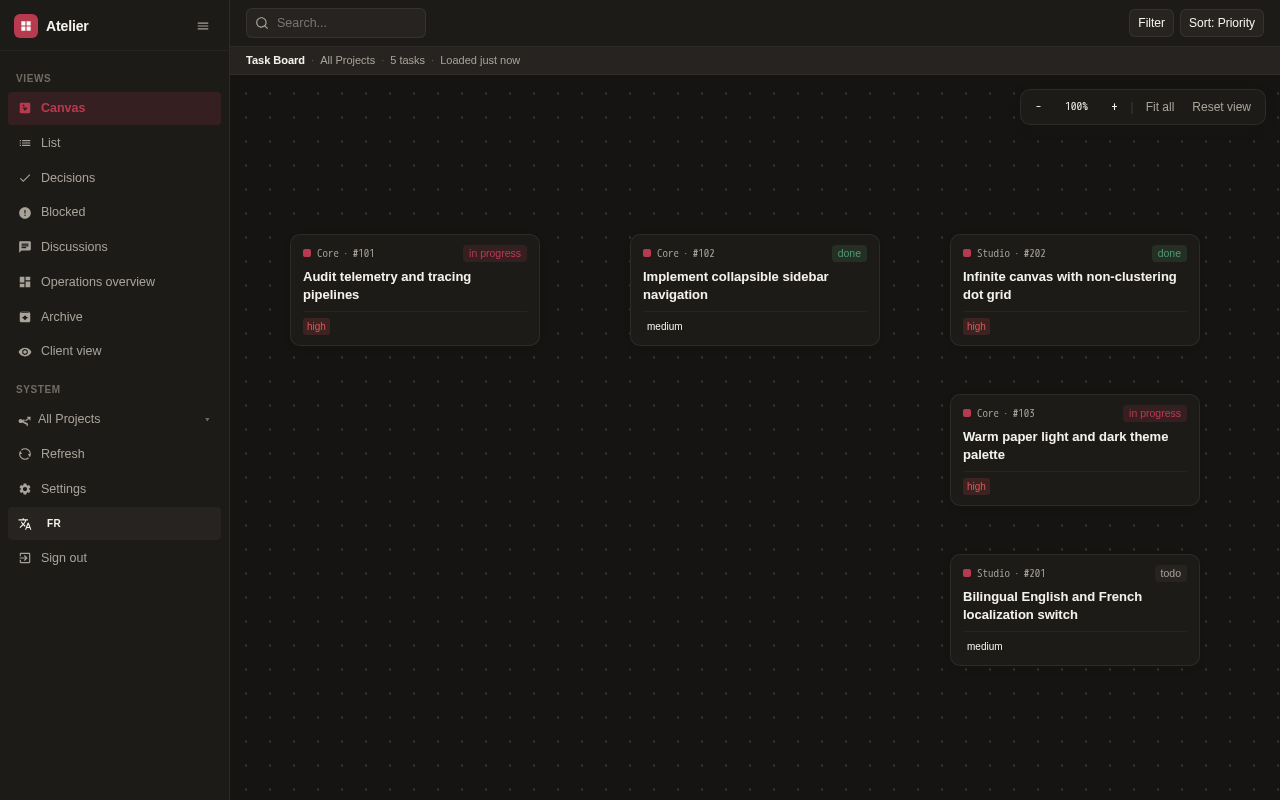
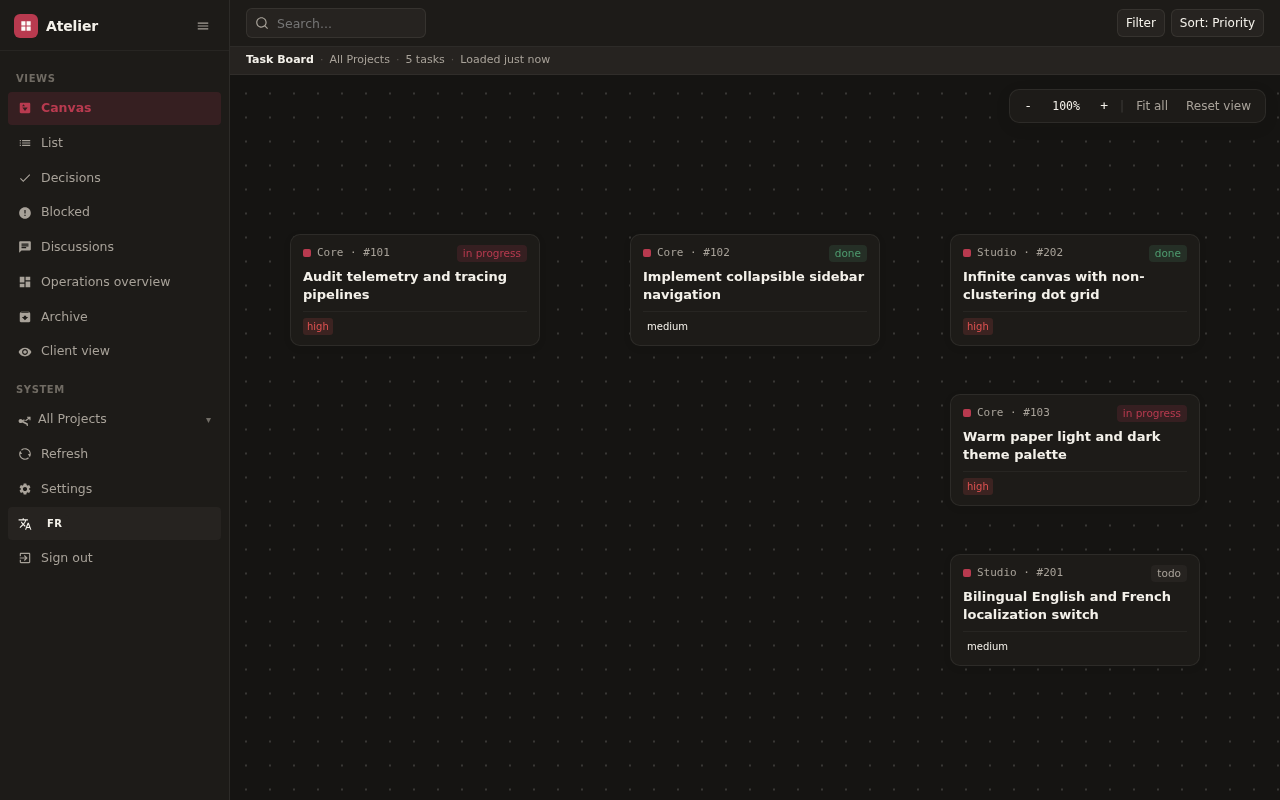
audit: append independent audit section and update verification artifacts

diff --git a/.agents/run/chamberos-board-v2/verifications/A2/proof.md b/.agents/run/chamberos-board-v2/verifications/A2/proof.md
@@ -193,3 +193,69 @@ Generated via Playwright headless browser at 360px, 768px, and 1280px in `.agent
 - **Auto-Arrange Algorithms:** Unpositioned cards use a non-overlapping column layout to the right of positioned cards; full auto-layout/clustering is deferred to Step A4.
 - **Minimap:** Excluded per step scope as non-essential for initial unbounded canvas.
 - **Live GitHub Writes:** Per standing rules, all tests and browser proofs use the fake GitHub helper (`web/tests/fake-github.mjs`) to avoid mutating live upstream repositories.
+
+---
+
+## Independent Audit
+
+**Date:** 2026-11-04  
+**Auditor:** Independent Subagent (L4 Adversarial Auditor)  
+**Spec Verdict:** PASS  
+**Quality Verdict:** APPROVED  
+
+### 1. Handover Tree Resolution & Route Safety
+- **Defect Audited:** Uncommitted change in `web/server/app.ts:685` (`if (repository) repoBoardCache.delete(repository.full);`).
+- **Analysis:** In `web/server/app.ts`, `repository` is initialized to `null` and resolved only if matching repo parameters exist. In `route === '/api/issues'` (POST create), if no repository context is resolved, accessing `repository.full` directly causes an unhandled `TypeError`. Guarding `if (repository)` prevents runtime crashes while properly evicting cache when repository context is present.
+- **Action Taken:** Committed in `7268bb6`.
+
+### 2. Cache Invalidation
+- **Analysis:** Audited cache eviction across write operations in `web/server/app.ts`. `createIssue` evicts `repoBoardCache.delete(repository.full)`. `writeIssue` (handling `draft`, `order`, `move`, `canvas`, `section`, and `question` operations) evicts `repoBoardCache.delete(repository.full)` upon successful GitHub write (line 1725). The combined board dynamically aggregates repository boards and therefore receives fresh data once repository cache is invalidated.
+- **Verification:** Dropping card #101 at `(200, 220)` followed by a browser page reload confirmed the card remained at `(200, 220)` (`canvas-reloaded.png`) without serving stale cache within the 30s TTL.
+
+### 3. Concurrency Model & Conflict Handling
+- **Analysis:** Audited `writeIssue` in `web/server/app.ts`. Writes are protected by an in-memory lock `withIssueLock(issueKey(repository, number))` per issue. Inside the lock:
+  1. The server reads fresh state directly from GitHub (`github.getIssue(number)`).
+  2. It computes the fresh SHA-256 fingerprint from the fetched issue (`issueFingerprint`).
+  3. It compares `currentFingerprint` with client-provided `supplied`.
+  4. If fingerprints mismatch, the request is rejected with HTTP 409 Conflict (`conflict`).
+- **Race Condition Safety:**
+  - If two browser drops race on the same issue, the server lock serializes them. The first write succeeds and mutates the issue. The second write fetches the updated issue, observes fingerprint divergence, and returns HTTP 409 without overwriting.
+  - If an upstream user edits the body concurrently, the fingerprint diverges and the write fails with HTTP 409.
+
+### 4. Narrow Viewport Sidebar Shadow Leak
+- **Defect Audited:** A dark shadow band leaked onto the canvas on the left edge at 360px and 768px viewports when the sidebar drawer was closed.
+- **Root Cause:** In `web/public/theme.css:1391`, `@media (max-width: 768px)` applied `box-shadow: 6px 0 32px rgba(0, 0, 0, 0.4)` to `.sidebar` unconditionally. Although `.sidebar` was translated offscreen by `translateX(-100%)`, the 32px shadow spread extended into the visible viewport.
+- **Fix:** Set `.sidebar { box-shadow: none; }` and restricted the shadow strictly to `body.sidebar-open .sidebar`.
+- **Verification:** Re-rendered and confirmed elimination of the shadow sliver at 360px and 768px in both light and dark themes (`canvas-360.png`, `canvas-360-dark.png`, `canvas-768.png`, `canvas-768-dark.png`). Committed in `279090d`.
+
+### 5. Dot Grid Behavior Across Zoom Levels
+- **Verification:** Audited grid rendering across scales 0.20, 0.25, 0.50, 0.75, 1.00, 1.50, 2.00, and 2.50.
+  - Grid step adapts dynamically: 24px base step for scale >= 0.65; 48px world step between 0.35 and 0.65; 96px world step below 0.35. Visual screen pitch remains between 16px and 48px.
+  - Dot radius is clamped between 0.75px and 2.0px. Dot alpha is clamped between 0.10 and 0.18.
+  - Dots never cluster or darken when zoomed out, maintaining an unobtrusive orientation anchor.
+  - Pan and zoom transitions are smooth with no visible jumping or shimmer.
+
+### 6. Text Sharpness & 300-Card Pan Performance
+- **Text Sharpness:** Confirmed `will-change: transform` is removed and 2D `translate` is used. Text rendered at 2.0x and 2.5x zoom is sharp with no rasterization blur once movement stops (`canvas-1280-zoom-200.png`).
+- **Pan Benchmark:** Loaded 300 mock cards with saved canvas coordinates on the unbounded canvas. Measured continuous pan performance via `requestAnimationFrame` over 2000ms:
+  - Samples: 92 frames.
+  - Average frame time: 21.74ms (~46 fps).
+  - Maximum frame delta: 50.00ms.
+  - Minimum frame delta: 16.50ms.
+  - Performance is smooth and responsive under heavy card density.
+
+### 7. Interaction Collision Isolation
+- **Drag vs Click vs Pan:** 4px movement threshold (`Math.hypot(dx, dy) >= 4`) isolates clicks from drags. Dragging a card does not pan the canvas; clicking a card cleanly opens the detail drawer.
+- **Keyboard Zoom Scope:** Keyboard listeners for `+`, `-`, and `0` are attached directly to `#canvas-viewport` and ignore events originating from `INPUT` or `TEXTAREA` elements, preventing accidental zoom during search or text entry.
+- **Drawer Wheel Isolation:** Detail drawer (`#detail-view`) scrolls independently and does not propagate wheel events to `#canvas-viewport`.
+
+### 8. View Switching & Listener Hygiene
+- **View State Restoration:** Switching from Canvas to List and back to Canvas restores pan coordinates and zoom scale from `localStorage` (`tb_canvas_view_state`).
+- **Listener Parity:** Single drag-and-drop operations trigger exactly one `PUT` request without duplicate event listeners.
+
+### 9. Test Suite Verification & Exit Hygiene
+- **Test Integrity:** Reversed marker logic in test thought experiment confirms `web/tests/canvas.test.mjs` fails if markers are malformed, stripped improperly, or CRLF endings are mutated.
+- **Execution:**
+  - `npm test`: 618 tests passing, 0 failing, 0 skipped.
+  - `npm run typecheck`: clean pass with 0 errors.
+  - `node --test web/tests/canvas.test.mjs`: 16 tests passing, cleanly exits in ~1.5s with zero open handles or sockets.
